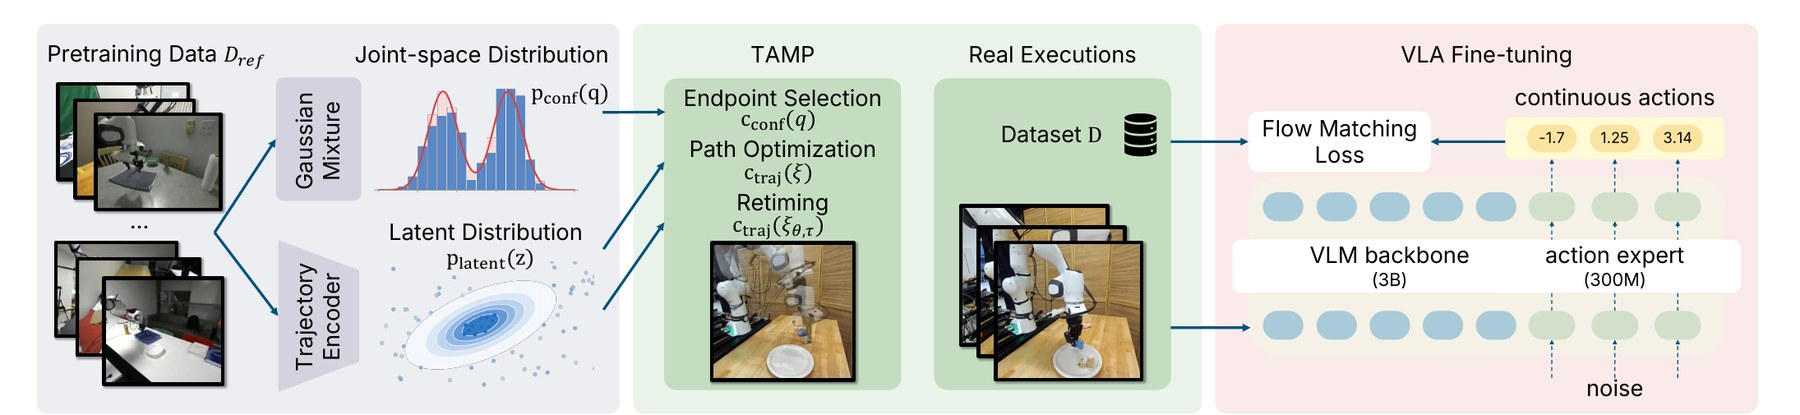
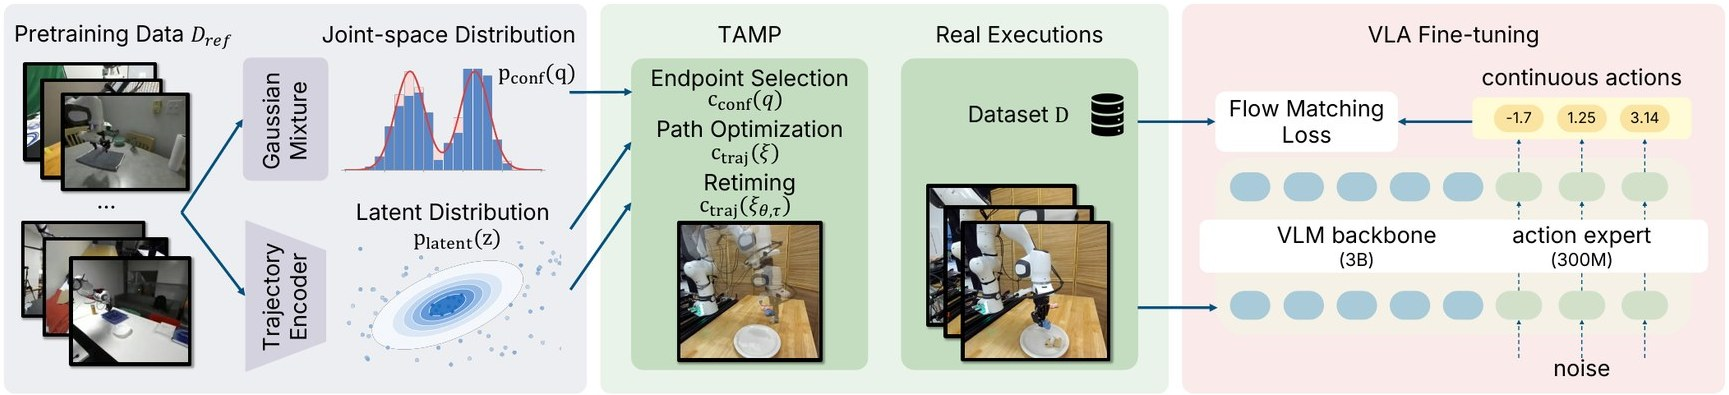
Align the right edges of text and figures
Let text blocks span the full content width so their right edges line
up with figures, charts, and videos, and narrow the content column to
960px to keep lines readable. Crop the white margins from the teaser,
overview, tasks, and alignment figures, run chart gridlines to the
edge, and tighten table cell padding so the full results table still
fits the narrower column.

diff --git a/index.html b/index.html
@@ -72,7 +72,7 @@
     </div>
 
     <figure class="fig teaser">
-      <img src="static/images/teaser.jpg" width="1800" height="782" alt="Given a pretrained VLA and a new task, TAMP is cheap but off-distribution, teleoperation is on-distribution but expensive, and distribution-aligned TAMP (DATAFARM) is cheap and on-distribution. End-effector speed profiles show DATAFARM resembling teleoperation." />
+      <img src="static/images/teaser.jpg" width="1756" height="744" alt="Given a pretrained VLA and a new task, TAMP is cheap but off-distribution, teleoperation is on-distribution but expensive, and distribution-aligned TAMP (DATAFARM) is cheap and on-distribution. End-effector speed profiles show DATAFARM resembling teleoperation." />
       <figcaption>Task and motion planning provides a scalable source of robot demonstrations but generates trajectories that are behaviorally mismatched with the VLA pretraining distribution, resulting in poor fine-tuning performance. Human teleoperation provides on-distribution demonstrations but requires substantial human effort. <b>DATAFARM</b> bridges these two approaches by aligning TAMP-generated trajectories with the pretraining distribution, enabling scalable generation of on-distribution demonstrations for VLA fine-tuning.</figcaption>
     </figure>
 
@@ -97,7 +97,7 @@
     <p class="sec-sub">DATAFARM learns models of reference behavior to guide the planner's selection of configurations, paths, and execution times. These models are learned before planning and subsequently held fixed.</p>
 
     <figure class="fig">
-      <img src="static/images/overview.jpg" width="1800" height="415" loading="lazy" alt="DATAFARM overview: a Gaussian mixture density over robot configurations and a trajectory encoder with a corresponding latent distribution are learned from pretraining demonstrations; these provide alignment costs for TAMP endpoint selection, path optimization, and retiming; the resulting trajectories are executed on the robot to collect demonstrations used to fine-tune the pretrained VLA." />
+      <img src="static/images/overview.jpg" width="1729" height="395" loading="lazy" alt="DATAFARM overview: a Gaussian mixture density over robot configurations and a trajectory encoder with a corresponding latent distribution are learned from pretraining demonstrations; these provide alignment costs for TAMP endpoint selection, path optimization, and retiming; the resulting trajectories are executed on the robot to collect demonstrations used to fine-tune the pretrained VLA." />
       <figcaption><b>Overview of DATAFARM.</b> DATAFARM first learns a reference distribution from pretraining demonstrations by fitting a Gaussian mixture density over robot configurations and learning a trajectory encoder with a corresponding latent distribution. These references provide alignment costs for TAMP with endpoint selection, path optimization, and retiming. We execute the resulting trajectories on the robot to collect demonstrations, which we use to fine-tune the pretrained VLA &pi;<sub>0.5</sub>-DROID.</figcaption>
     </figure>
 
@@ -145,7 +145,7 @@
 
     <div class="two-col">
       <figure class="fig">
-        <img src="static/images/tasks.jpg" width="1040" height="725" loading="lazy" alt="Initial and final scenes for Geometric Constraints, Multi-Step Reasoning, Semantic Reasoning, and Deformable Object Manipulation." />
+        <img src="static/images/tasks.jpg" width="988" height="668" loading="lazy" alt="Initial and final scenes for Geometric Constraints, Multi-Step Reasoning, Semantic Reasoning, and Deformable Object Manipulation." />
       </figure>
       <ul class="task-list">
         <li><b>Geometric Constraints <span class="tag target">target</span></b>Requires placing three toys on a plate without collisions. Earlier placements constrain the remaining free space; placing the first toy in the center can prevent a later placement.</li>
@@ -293,7 +293,7 @@
 
     <div class="two-col">
       <figure class="fig narrow">
-        <img src="static/images/alignment.jpg" width="1045" height="1300" loading="lazy" alt="PCA density contours. Joint space: 74% of DATAFARM samples inside the DROID contour vs. 66% raw TAMP and 60% without joint-space alignment. Latent space: 96% DATAFARM vs. 0% raw TAMP, 89% without style, 19% without timing." />
+        <img src="static/images/alignment.jpg" width="991" height="1263" loading="lazy" alt="PCA density contours. Joint space: 74% of DATAFARM samples inside the DROID contour vs. 66% raw TAMP and 60% without joint-space alignment. Latent space: 96% DATAFARM vs. 0% raw TAMP, 89% without style, 19% without timing." />
       </figure>
       <div class="prose">
         <p>DATAFARM increases overlap with DROID in both the joint-space and trajectory-latent projections.</p>

diff --git a/static/css/style.css b/static/css/style.css
@@ -18,7 +18,7 @@
   --grid: #ededea;
   --axis: #b9b9b3;
 
-  --max: 1040px;
+  --max: 960px;
   --font: 'Inter', -apple-system, BlinkMacSystemFont, 'Segoe UI', Roboto, Helvetica, Arial, sans-serif;
   --font-serif: 'Source Serif 4', Georgia, 'Times New Roman', serif;
   --font-mono: ui-monospace, SFMono-Regular, Menlo, Consolas, monospace;
@@ -59,8 +59,8 @@ nav.top a.link:hover { color: var(--ink); }
 
 /* ---------- left table of contents (wide screens) ---------- */
 .toc { display: none; }
-@media (min-width: 1480px) {
-  .toc { display: block; position: fixed; top: 116px; left: calc((100vw - 1040px) / 2 - 184px); width: 166px; z-index: 40; }
+@media (min-width: 1400px) {
+  .toc { display: block; position: fixed; top: 116px; left: calc((100vw - var(--max)) / 2 - 184px); width: 166px; z-index: 40; }
   nav.top a.link { display: none; }
 }
 .toc-hd { font-size: 11px; letter-spacing: .12em; text-transform: uppercase; color: var(--muted); margin: 0 0 10px 14px; }
@@ -99,8 +99,8 @@ h1.title {
 section { padding: 66px 0; border-top: 1px solid var(--line); }
 h2.sec { font-family: var(--font-serif); font-size: 27px; font-weight: 600; margin: 0 0 8px; letter-spacing: -.005em; }
 h3.sub { font-family: var(--font-serif); font-size: 20px; font-weight: 600; margin: 56px 0 8px; }
-.sec-sub { color: var(--muted); max-width: 680px; margin: 0 0 34px; font-size: 15.5px; }
-.prose { max-width: 700px; font-size: 16.5px; color: var(--ink-2); }
+.sec-sub { color: var(--muted); margin: 0 0 34px; font-size: 15.5px; }
+.prose { font-size: 16.5px; color: var(--ink-2); }
 .prose p { margin: 0 0 18px; }
 .prose p:last-child { margin-bottom: 0; }
 .prose b { color: var(--ink); font-weight: 600; }
@@ -109,9 +109,9 @@ h3.sub { font-family: var(--font-serif); font-size: 20px; font-weight: 600; marg
 figure { margin: 0; }
 .fig { margin: 0; }
 .fig img { width: 100%; height: auto; }
-.fig figcaption, .caption { color: var(--muted); font-size: 14px; line-height: 1.55; margin: 14px 0 0; max-width: 820px; text-align: left; }
+.fig figcaption, .caption { color: var(--muted); font-size: 14px; line-height: 1.55; margin: 14px 0 0; text-align: left; }
 .fig figcaption b, .caption b { color: var(--ink-2); font-weight: 600; }
-.teaser { margin: 44px auto 0; max-width: 940px; }
+.teaser { margin: 44px 0 0; }
 .fig.narrow { max-width: 560px; }
 
 /* ---------- method steps ---------- */
@@ -193,7 +193,7 @@ figure { margin: 0; }
 .tip .r { display: flex; justify-content: space-between; gap: 14px; }
 .tip .r span:last-child { font-variant-numeric: tabular-nums; }
 .tip i { display: inline-block; width: 8px; height: 8px; margin-right: 6px; vertical-align: 0; }
-.chart-note { font-size: 13px; color: var(--muted); margin: 12px 0 0; max-width: 760px; }
+.chart-note { font-size: 13px; color: var(--muted); margin: 12px 0 0; }
 
 .grid-2 { display: grid; grid-template-columns: 1fr 1fr; gap: 40px; margin-top: 44px; }
 @media (max-width: 860px) { .grid-2 { grid-template-columns: 1fr; gap: 34px; } }
@@ -207,7 +207,7 @@ details.table-toggle summary::-webkit-details-marker { display: none; }
 details.table-toggle summary::before { content: "+"; font-family: var(--font-mono); }
 details.table-toggle[open] summary::before { content: "\2212"; }
 table.res { border-collapse: collapse; width: 100%; min-width: 720px; font-size: 13px; font-variant-numeric: tabular-nums; }
-table.res th, table.res td { padding: 7px 10px; text-align: center; border-bottom: 1px solid var(--line); white-space: nowrap; }
+table.res th, table.res td { padding: 7px; text-align: center; border-bottom: 1px solid var(--line); white-space: nowrap; }
 table.res th { font-size: 11.5px; font-weight: 500; color: var(--muted); }
 table.res thead tr:first-child th { color: var(--ink-2); }
 table.res thead tr:last-child th { border-bottom-color: var(--line-2); }
@@ -224,7 +224,7 @@ table.res .grp { border-left: 1px solid var(--line); }
 @media (max-width: 760px) { .findings { grid-template-columns: 1fr; } }
 
 /* ---------- bibtex ---------- */
-.bib { position: relative; max-width: 700px; }
+.bib { position: relative; }
 .bib pre {
   background: var(--bg-soft); color: var(--ink-2); border: 1px solid var(--line);
   padding: 18px 20px; font-family: var(--font-mono); font-size: 13px; line-height: 1.6;

diff --git a/static/js/main.js b/static/js/main.js
@@ -88,7 +88,7 @@
       var W = Math.max(container.clientWidth, 280);
       var narrow = W < 560;
       var H = opts.height || (narrow ? 280 : 320);
-      var m = { t: 22, r: 8, b: narrow ? 44 : 34, l: 34 };
+      var m = { t: 22, r: 1, b: narrow ? 44 : 34, l: 34 };
       var iw = W - m.l - m.r, ih = H - m.t - m.b;
       var cats = opts.cats, keys = opts.keys, data = opts.data();
       var gw = iw / cats.length;
@@ -177,9 +177,10 @@
       if (svg) svg.remove();
       var W = Math.max(container.clientWidth, 260);
       var H = 280;
-      var m = { t: 22, r: 16, b: 40, l: 38 };
+      var m = { t: 22, r: 1, b: 40, l: 38 };
       var iw = W - m.l - m.r, ih = H - m.t - m.b;
-      var x = function (d) { return m.l + (d / 80) * iw; };
+      // keep the last point's marker inside the right edge
+      var x = function (d) { return m.l + (d / 80) * (iw - 5); };
       var y = function (val) { return m.t + ih - (val / 100) * ih; };
       svg = el('svg', { viewBox: '0 0 ' + W + ' ' + H, width: W, height: H, role: 'img', 'aria-label': 'Success and progress vs. number of DATAFARM demonstrations' });
       container.insertBefore(svg, container.firstChild);
